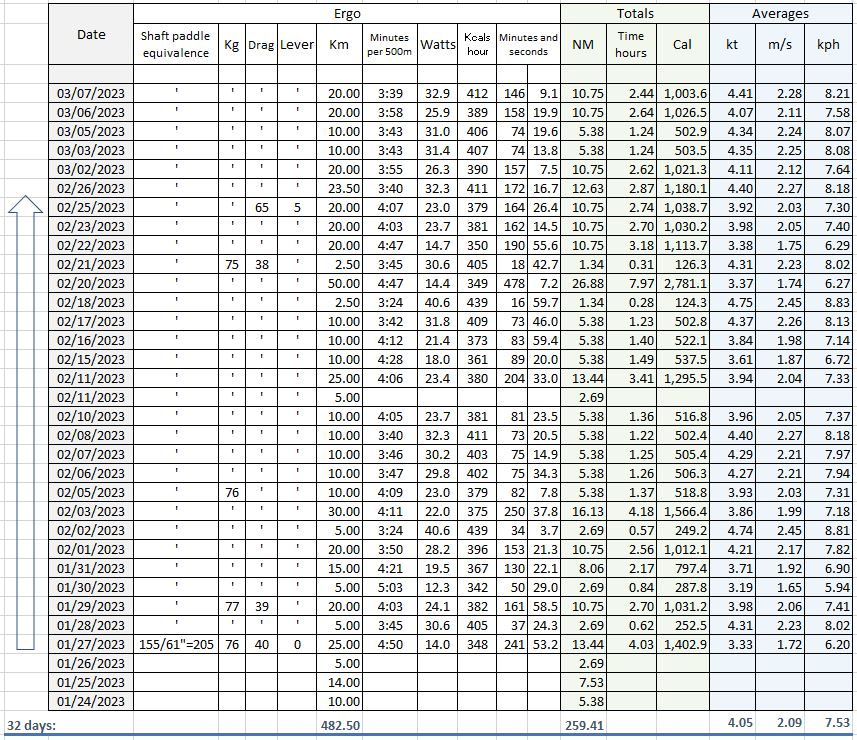
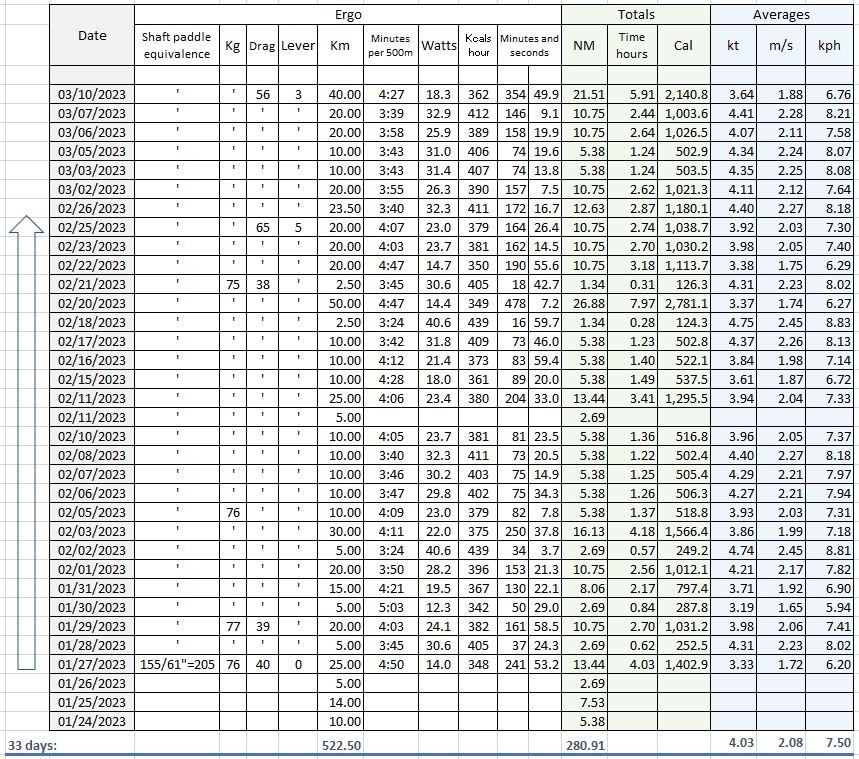
updates 1 full lap

diff --git a/dry-run/log/index.html b/dry-run/log/index.html
@@ -214,11 +214,11 @@ $(document).ready(function(){
 <p>This is not the actual trip. This is just training mapped on chart to have an idea of what the real thing might be.</p>
 </blockquote>
 <blockquote>
-<p>March 7, 2023</p>
+<p>March 10, 2023</p>
 </blockquote>
-<p><img src="/img/mar7.JPG" alt="March 7">
+<p><img src="/img/mar10.JPG" alt="March 10">
 <div style="text-align: center">
-32 days on ergo, 259 nautical miles, 482 Km
+33 days on ergo, 281 nautical miles, 522 Km, one full lap around PEI
 </div>
 </p>
 <p><img src="/img/Stats.JPG" alt="Stats">
